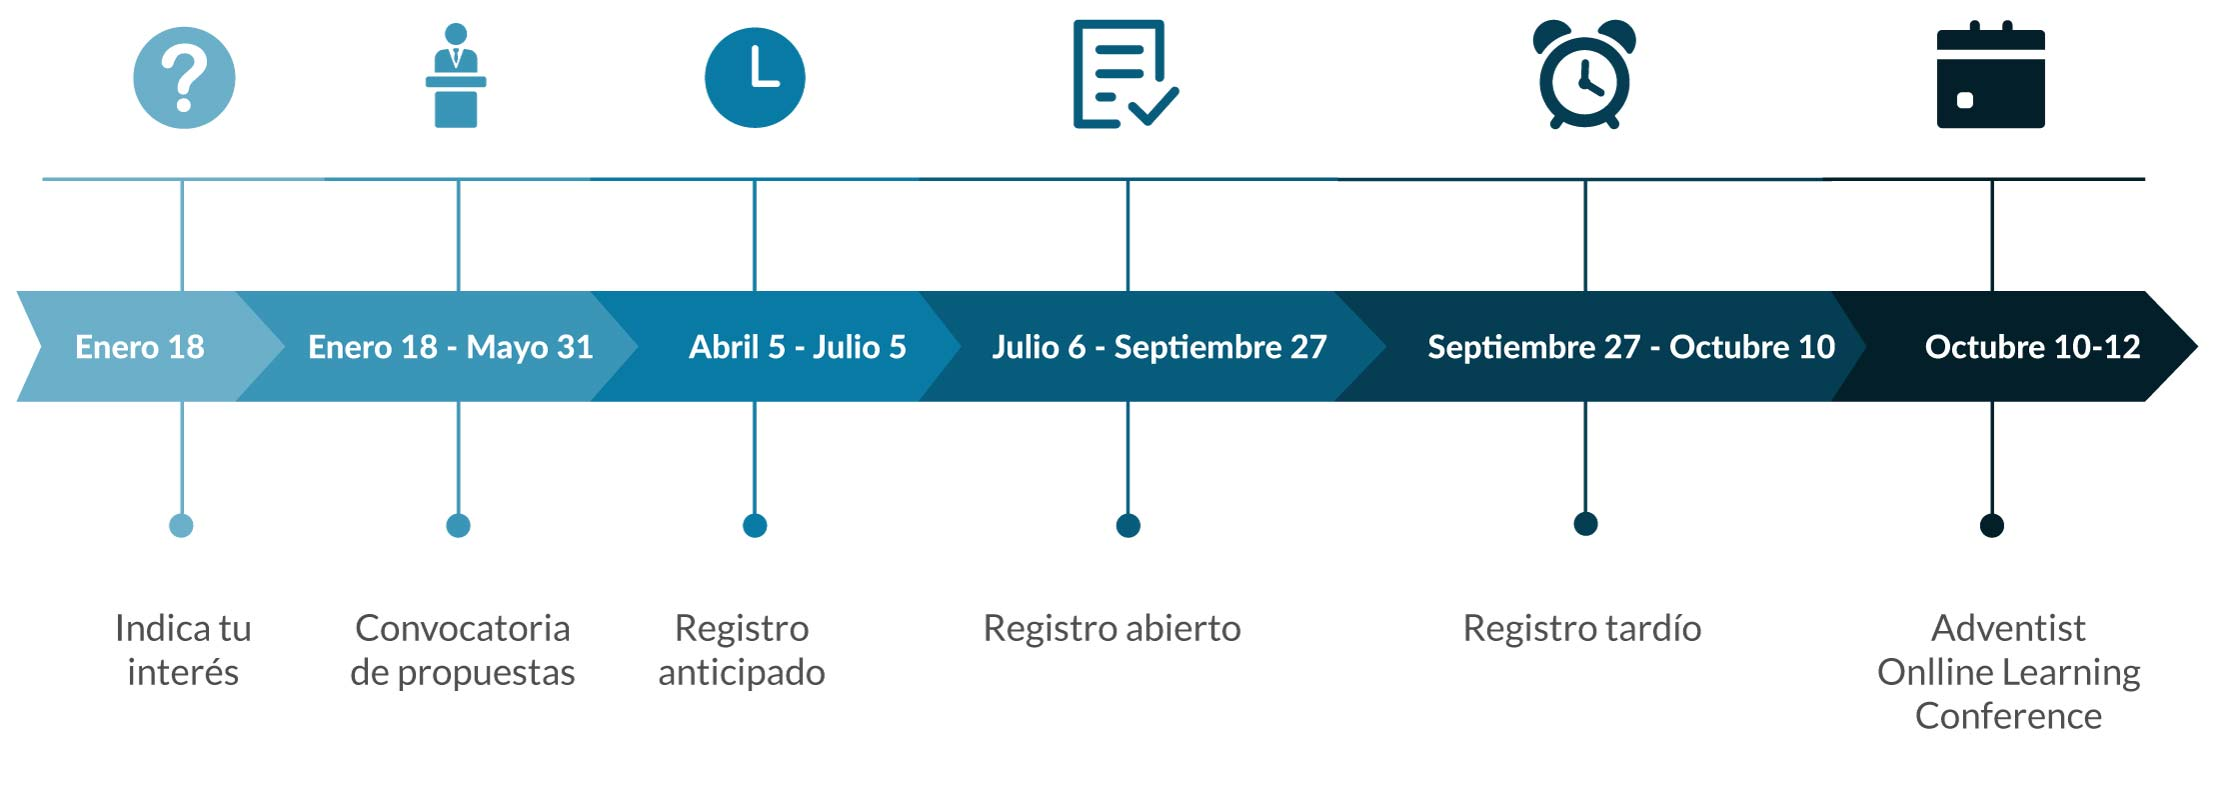
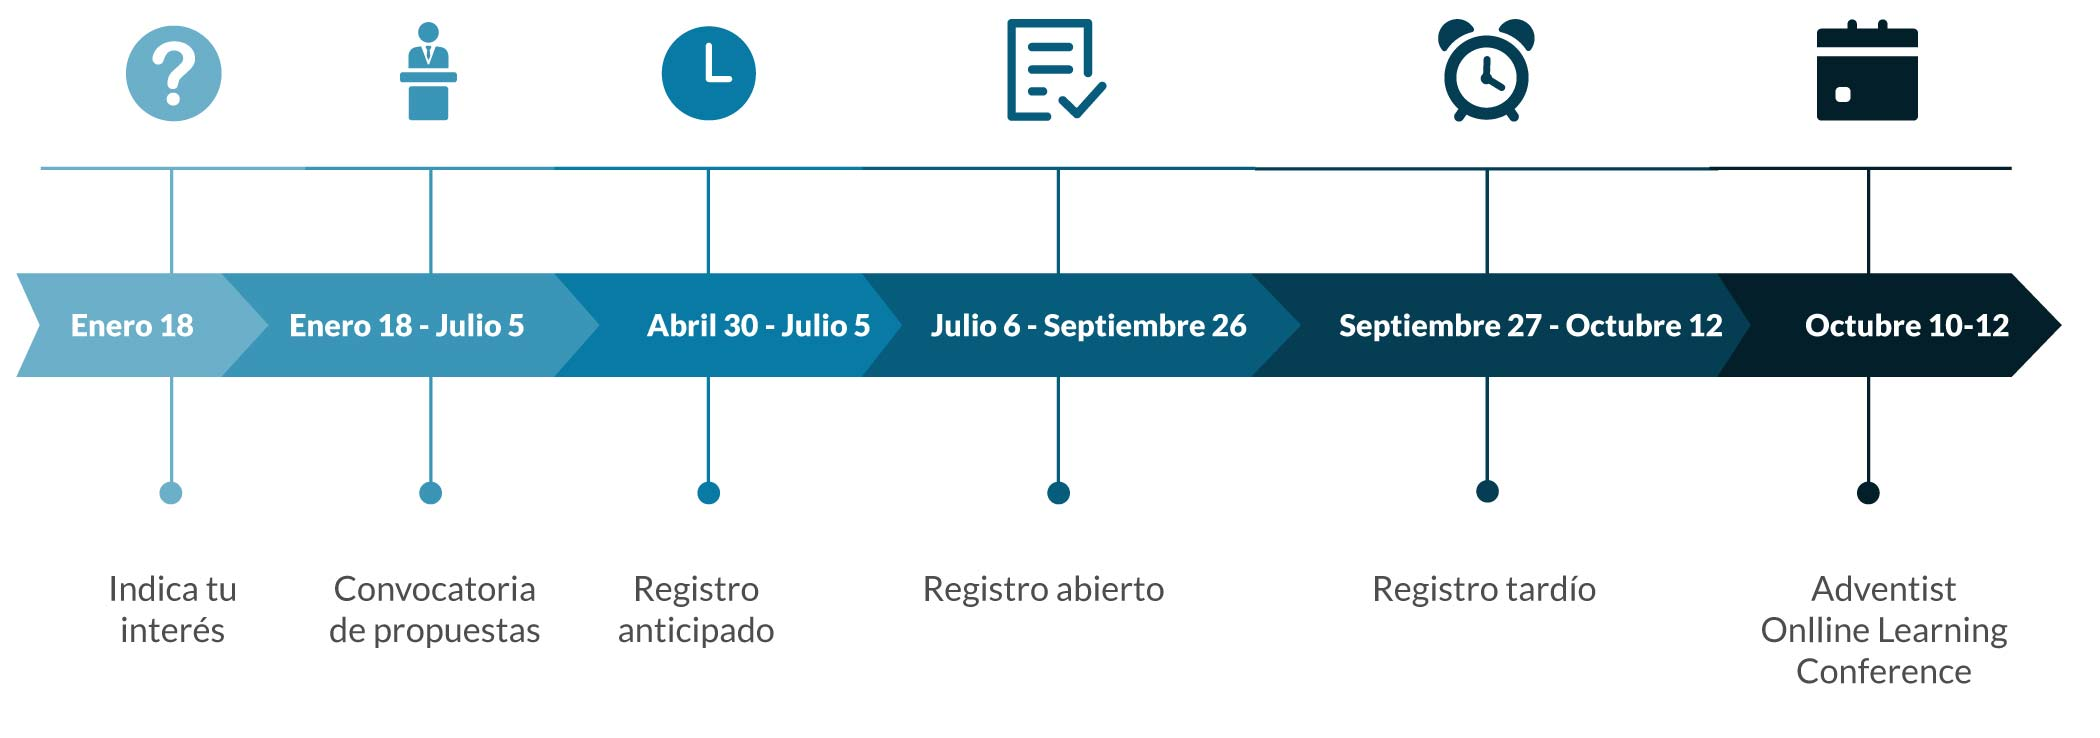
agregar información de los attendees

diff --git a/css/styles.css b/css/styles.css
@@ -1,92 +1,122 @@
 @import url('https://fonts.googleapis.com/css?family=Dancing+Script');
 @import url('https://fonts.googleapis.com/css?family=Lato:300,400,700,900');
 body {
-    font-family: 'Lato', sans-serif;
-    margin: 0;
-    padding: 0;
+  font-family: 'Lato', sans-serif;
+  margin: 0;
+  padding: 0;
 }
-
 a {
-    color: #666;
+  color: #666;
 }
-
 iframe {
-    width: 100vw;
-    height: 100vh;
+  width: 100vw;
+  height: 100vh;
 }
-
-header {
-    margin: 1em;
-    padding: 0 1em;
-}
-
-footer {
-    color: #666666;
-    font-size: 18px;
-    padding: 1em;
-}
-
-.container {
-    max-width: 1440px;
-    display: block;
-    margin: 0 auto;
-}
-
-.banner2 h1 {
-    margin: 0 0 10px 0;
-}
-
-.gia {
-    max-height: 120px;
-    max-width: 450px;
-}
-
 #sm {
-    display: none;
-    visibility: hidden;
+  display: none;
+  visibility: hidden;
 }
-
+.container {
+  max-width: 1440px;
+  display: block;
+  margin: 0 auto;
+}
+header {
+  margin: 1em;
+  padding: 0 1em;
+}
+.gia {
+  max-height: 120px;
+  max-width: 450px;
+}
 #gracias {
-    background: url(../images/bkg-elearning.jpg) center top no-repeat;
-    background-size: cover;
-    padding: 5em 2em 0;
-    border-bottom: 30px solid #b49e29;
-    margin: 0;
+  background: url(../images/bkg-elearning.jpg) center top no-repeat;
+  background-size: cover;
+  padding: 5em 2em 0;
+  border-bottom: 30px solid #b49e29;
 }
-
 #gracias h1 {
-    font-family: 'Dancing Script', cursive;
-    color: white;
-    font-size: 8vw;
-    margin-bottom: 0;
+  font-family: 'Dancing Script', cursive;
+  color: white;
+  font-size: 8vw;
+  margin-bottom: 0;
 }
-
 #gracias #subtitulo {
-    margin-top: 30px;
-    border-top: 1px solid white;
+  margin-top: 30px;
+  border-top: 1px solid white;
 }
-
 #gracias h2 {
-    color: white;
-    font-size: 24px;
-    font-weight: 300;
+  color: white;
+  font-size: 24px;
+  font-weight: 300;
 }
-
 #gracias #conference {
-    margin-top: 7em;
-    background: rgba(0, 0, 0, 0.5);
-    padding: 2em;
+  margin-top: 7em;
+  background: rgba(0, 0, 0, 0.5);
+  padding: 2em;
 }
-
 #gracias #conference img {
-    margin-bottom: 4em;
+  margin-bottom: 4em;
 }
-
+table {
+  width: 100%;
+}
+table th,
+table td {
+  border: 2px solid #34495e;
+}
+table th {
+  background: #34495e;
+  color: white;
+}
+table .tg {
+  border-collapse: collapse;
+  border-spacing: 0;
+}
+table .tg td {
+  font-family: Arial, sans-serif;
+  font-size: 14px;
+  padding: 10px 5px;
+  border-style: solid;
+  border-width: 1px;
+  overflow: hidden;
+  word-break: normal;
+}
+table .tg th {
+  font-family: Arial, sans-serif;
+  font-size: 14px;
+  font-weight: normal;
+  padding: 10px 5px;
+  border-style: solid;
+  border-width: 1px;
+  overflow: hidden;
+  word-break: normal;
+}
+table .tg .tg-yw4l {
+  vertical-align: top;
+}
+footer {
+  color: #666666;
+  font-size: 18px;
+  padding: 1em;
+}
 @media only screen and (min-width: 48em) {
-    #gracias h2 {
-        font-size: 32px;
-    }
-    footer {
-        font-size: 21px;
-    }
+  #gracias h2 {
+    font-size: 32px;
+  }
+  footer {
+    font-size: 21px;
+  }
+}
+@media screen and (max-width: 767px) {
+  .tg {
+    width: auto !important;
+  }
+  .tg col {
+    width: auto !important;
+  }
+  .tg-wrap {
+    overflow-x: auto;
+    -webkit-overflow-scrolling: touch;
+  }
 }

diff --git a/index.html b/index.html
@@ -167,6 +167,43 @@
                     <!-- /.col-md-12 col -->
                 </div>
                 <!-- /.row -->
+                <div class="row">
+                    <div class="col-md-12">
+                        <div class="col editContent" data-selector=".editContent">
+                            <div class="tg-wrap">
+                                <table class="tg">
+                                    <tr>
+                                        <th class="tg-031e">Registration Period</th>
+                                        <th class="tg-031e">Dates</th>
+                                        <th class="tg-yw4l">International and Virtual  Cost</th>
+                                        <th class="tg-yw4l">US & Canada</th>
+                                    </tr>
+                                    <tr>
+                                        <td class="tg-yw4l">Early registration</td>
+                                        <td class="tg-yw4l">April 30 to July 5, 2017</td>
+                                        <td class="tg-yw4l">$30 USD</td>
+                                        <td class="tg-yw4l">$75 USD</td>
+                                    </tr>
+                                    <tr>
+                                        <td class="tg-yw4l">Registration open</td>
+                                        <td class="tg-yw4l">July 6 to September 26, 2017</td>
+                                        <td class="tg-yw4l">$35 USD</td>
+                                        <td class="tg-yw4l">$80 USD</td>
+                                    </tr>
+                                    <tr>
+                                        <td class="tg-yw4l">Late registration</td>
+                                        <td class="tg-yw4l">September 27 to October 12, 2017</td>
+                                        <td class="tg-yw4l">$40 USD</td>
+                                        <td class="tg-yw4l">$85 USD</td>
+                                    </tr>
+                                </table>
+                            </div>
+                        </div>
+                        <!-- /.col -->
+                    </div>
+                    <!-- /.col-md-12 col -->
+                </div>
+                <!-- /.row -->
             </div>
             <!-- /.container -->
         </div>

diff --git a/css/styles.less b/css/styles.less
@@ -7,7 +7,7 @@ body {
 }
 
 a {
-    color:#666;
+    color: #666;
 }
 
 iframe {
@@ -66,6 +66,44 @@ header {
     }
 }
 
+table {
+    width: 100%;
+    th,
+    td {
+        border: 2px solid #34495e;
+    }
+    th {
+        background: #34495e;
+        color: white;
+    }
+    .tg {
+        border-collapse: collapse;
+        border-spacing: 0;
+        td {
+            font-family: Arial, sans-serif;
+            font-size: 14px;
+            padding: 10px 5px;
+            border-style: solid;
+            border-width: 1px;
+            overflow: hidden;
+            word-break: normal;
+        }
+        th {
+            font-family: Arial, sans-serif;
+            font-size: 14px;
+            font-weight: normal;
+            padding: 10px 5px;
+            border-style: solid;
+            border-width: 1px;
+            overflow: hidden;
+            word-break: normal;
+        }
+        .tg-yw4l {
+            vertical-align: top
+        }
+    }
+}
+
 footer {
     color: #666666;
     font-size: 18px;
@@ -78,5 +116,18 @@ footer {
     }
     footer {
         font-size: 21px;
+    }
+}
+
+@media screen and (max-width: 767px) {
+    .tg {
+        width: auto !important;
+    }
+    .tg col {
+        width: auto !important;
+    }
+    .tg-wrap {
+        overflow-x: auto;
+        -webkit-overflow-scrolling: touch;
     }
 }

diff --git a/css/style.css b/css/style.css
@@ -36,8 +36,55 @@
 #timeline_tablet {
     display: none;
 }
-#newtemp14{
+
+#newtemp14 {
     padding-bottom: 30px;
+}
+
+table {
+    width: 100%;
+}
+
+table th,
+table td {
+    border: 2px solid #34495e;
+    padding: 3px;
+    text-align: center;
+}
+
+table th {
+    background: #34495e;
+    color: white;
+}
+
+table .tg {
+    border-collapse: collapse;
+    border-spacing: 0;
+}
+
+table .tg td {
+    font-family: Arial, sans-serif;
+    font-size: 14px;
+    padding: 10px 5px;
+    border-style: solid;
+    border-width: 1px;
+    overflow: hidden;
+    word-break: normal;
+}
+
+table .tg th {
+    font-family: Arial, sans-serif;
+    font-size: 14px;
+    font-weight: normal;
+    padding: 10px 5px;
+    border-style: solid;
+    border-width: 1px;
+    overflow: hidden;
+    word-break: normal;
+}
+
+table .tg .tg-yw4l {
+    vertical-align: top;
 }
 
 @media (max-width: 768px) and (min-width: 300px) {
@@ -54,6 +101,16 @@
     }
     #hosts .col-md-6 p {
         text-align: center;
+    }
+    .tg {
+        width: auto !important;
+    }
+    .tg col {
+        width: auto !important;
+    }
+    .tg-wrap {
+        overflow-x: auto;
+        -webkit-overflow-scrolling: touch;
     }
 }
 
